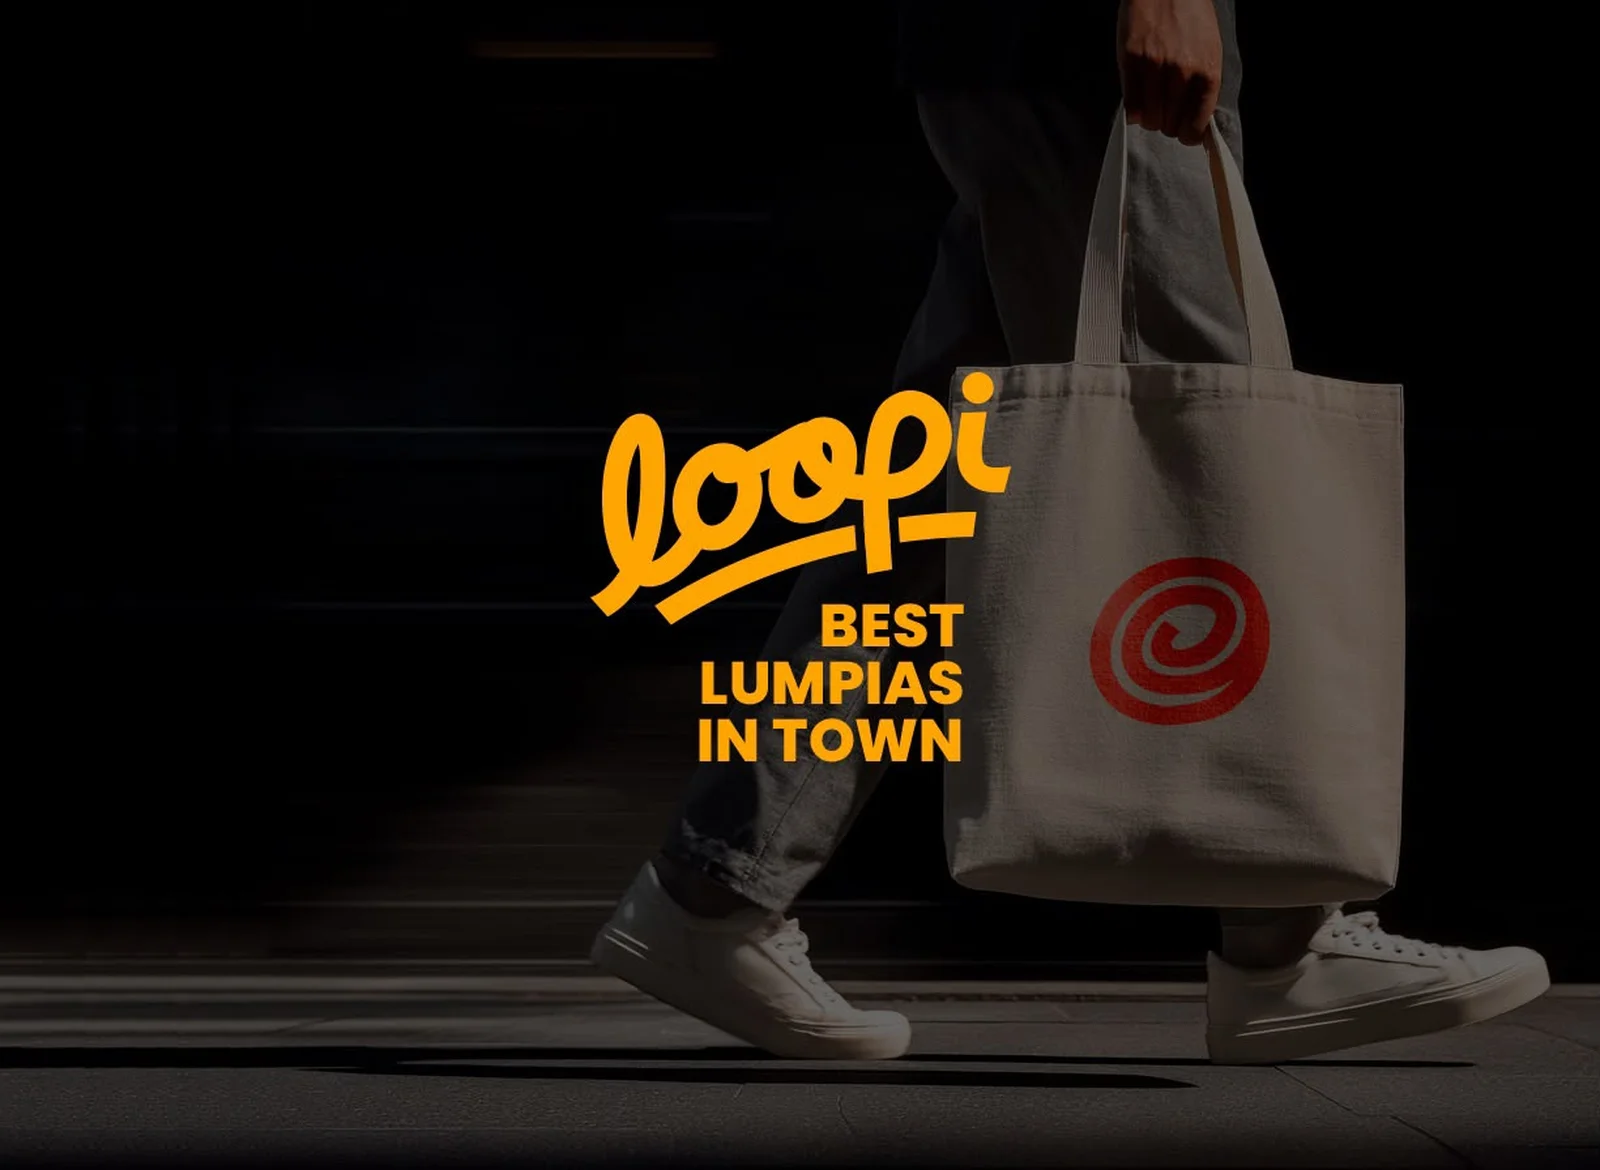
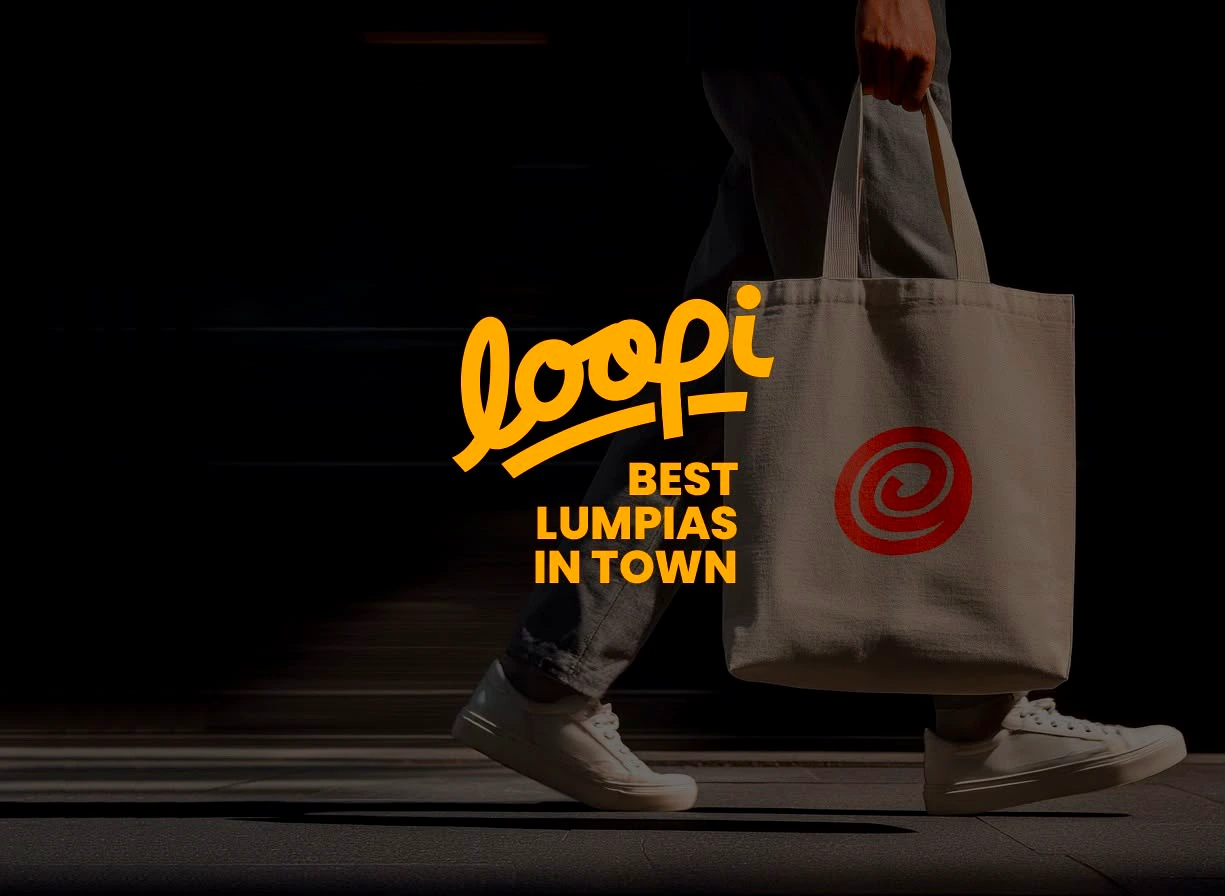
Corregir calidad y recorte de la foto del footer
- Bug real: la había reescalado a 1600px de ancho cuando el original
  mide 1225x896 — eso es upscaling, se ve borrosa/suave porque no hay
  detalle nuevo que agregar, solo estira los píxeles que ya había.
  Reprocesada a su resolución nativa, sin agrandar.
- Colores con más vida: +35% saturación, +8% contraste, +15% nitidez
  sobre el original (antes se guardaba tal cual, plana).
- El recorte "muy zoomeado": con background-size:cover en una franja
  ancha y baja como el footer, el punto de referencia (35% vertical)
  favorecía la franja oscura vacía de arriba de la foto en vez del
  wordmark y la cartera. Centrado en 55% vertical, y baja la altura
  mínima del footer (420px -> 320px, 380px en desktop) para que haya
  menos que recortar en primer lugar.

diff --git a/styles.css b/styles.css
@@ -1052,7 +1052,7 @@ body.no-scroll {
   position: relative;
   color: var(--crema);
   overflow: hidden;
-  min-height: 420px;
+  min-height: 320px;
   display: flex;
   align-items: flex-end;
   padding-block: var(--space-xl);
@@ -1062,7 +1062,14 @@ body.no-scroll {
   inset: 0;
   z-index: 0;
   background-size: cover;
-  background-position: center 35%;
+  /* Centrado en el sujeto (wordmark + cartera), no en la franja oscura
+     vacía de arriba de la foto — con cover en una franja ancha y baja
+     como el footer, lo que quede fuera del punto de referencia se
+     recorta primero. */
+  background-position: center 55%;
+}
+@media (min-width: 900px) {
+  .footer { min-height: 380px; }
 }
 .footer__overlay {
   position: absolute;
